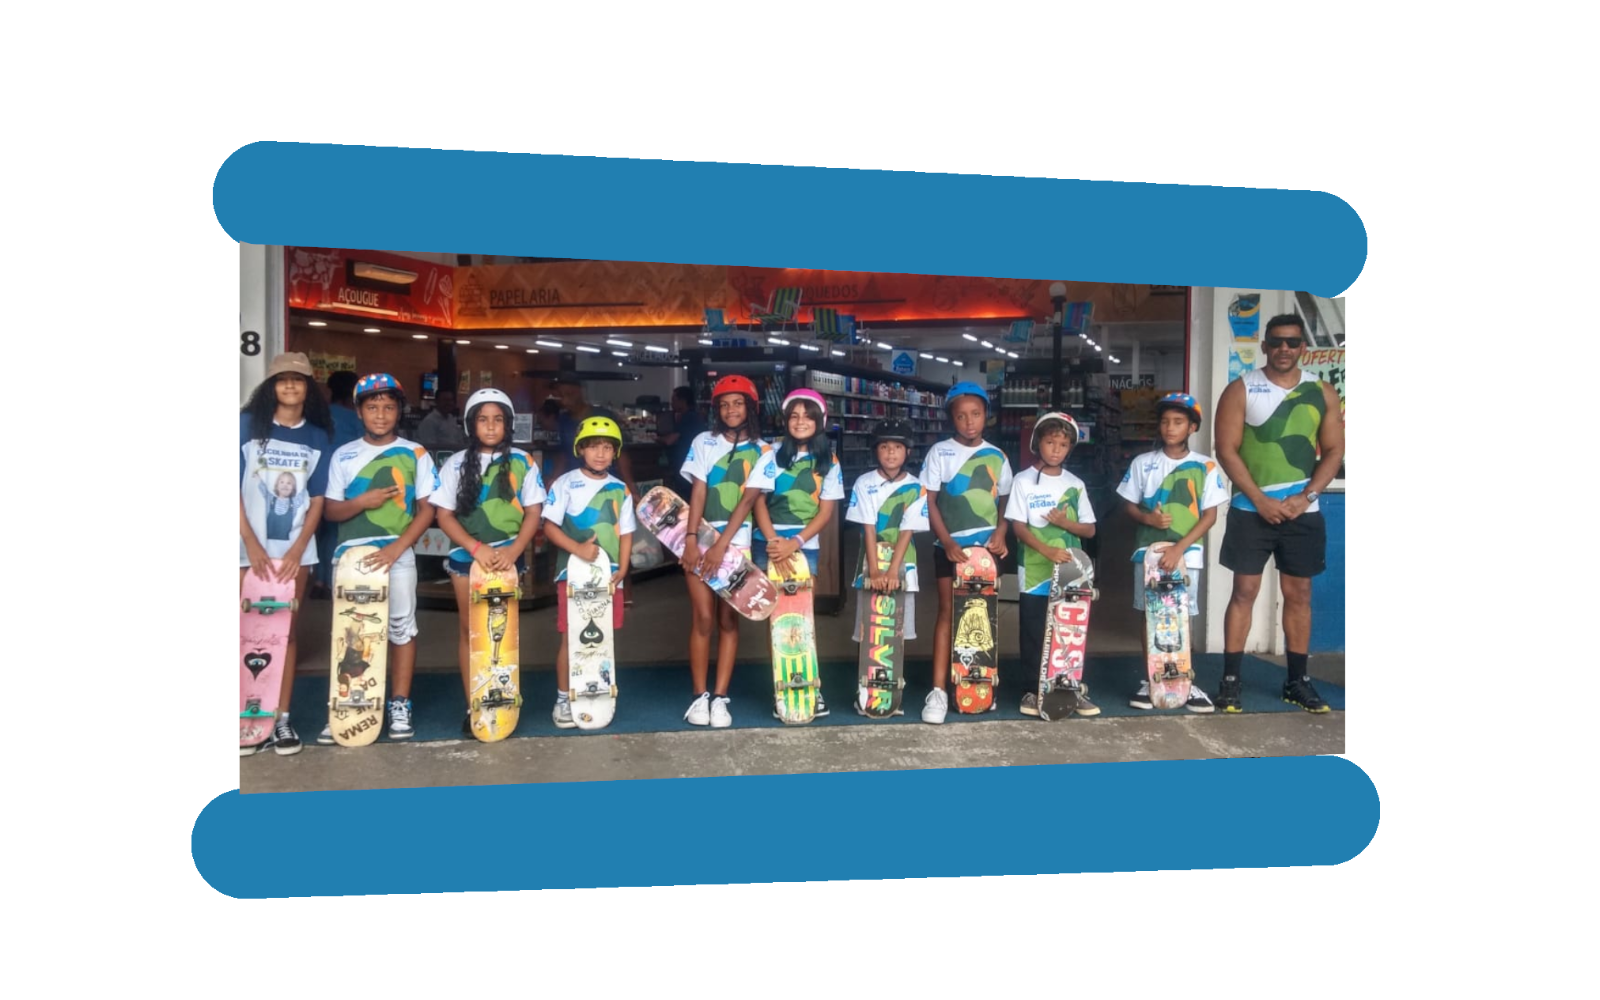
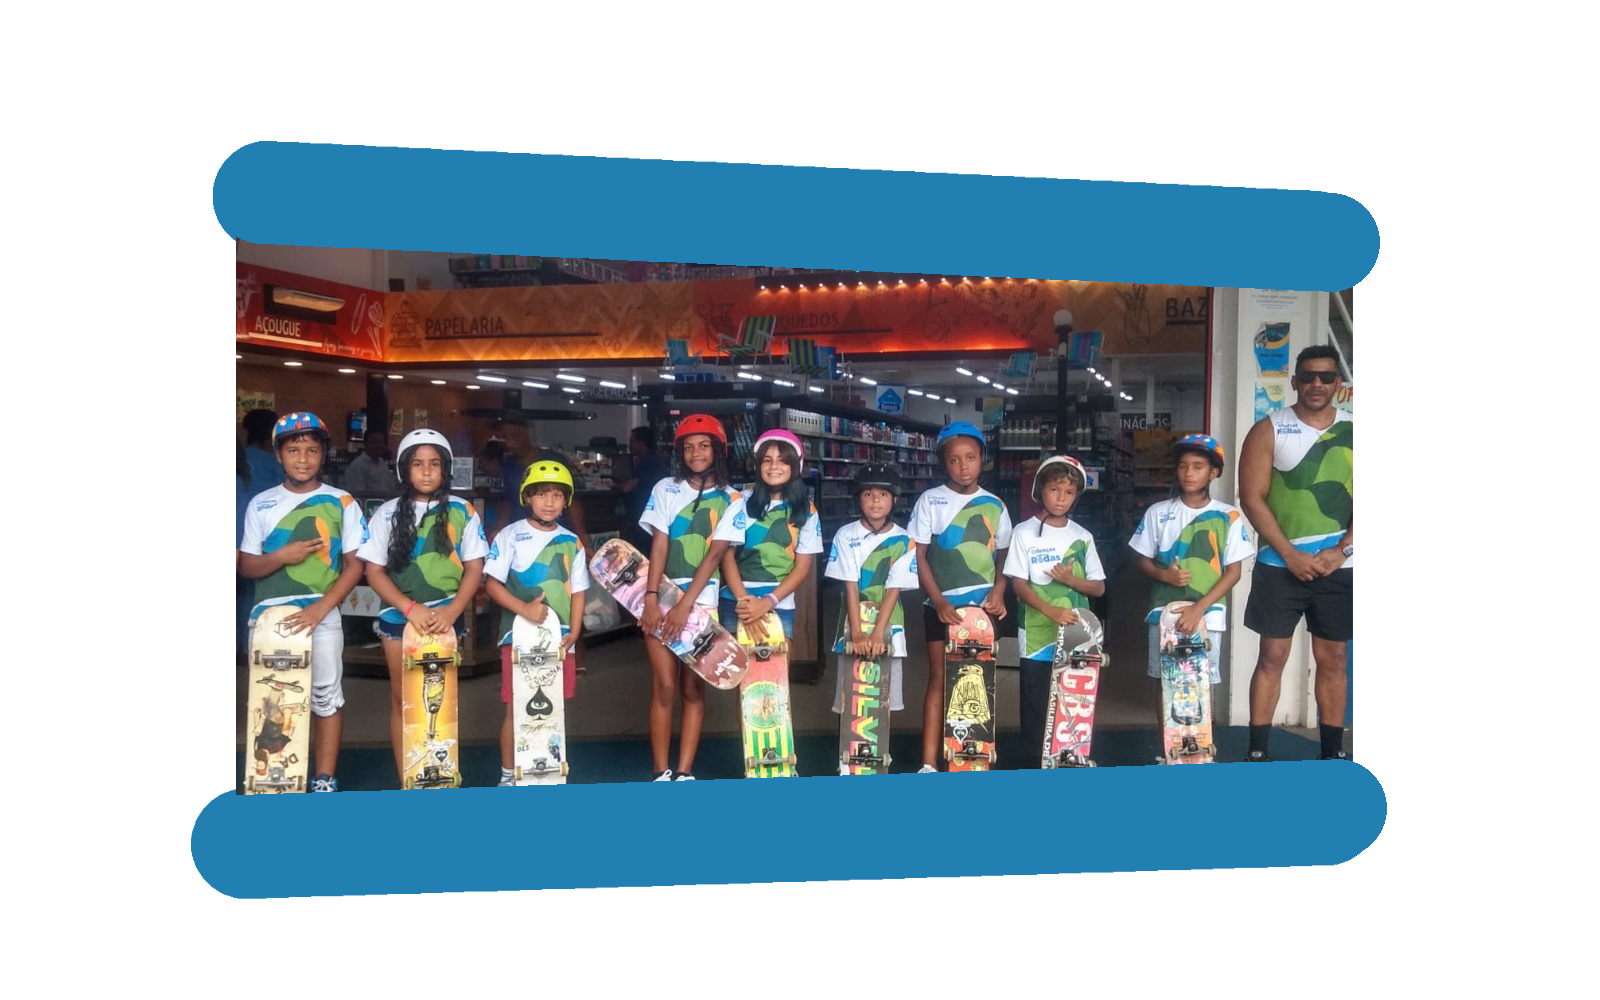
size, photo change

diff --git a/style.css b/style.css
@@ -533,5 +533,11 @@ textarea{
     align-items: center;
 }
 #apoio img{
-    width: 70%;
+    width: 50%;
+}
+
+@media screen and (max-width: 768px) {
+    #apoio img{
+        width: 70%;
+    }   
 }
